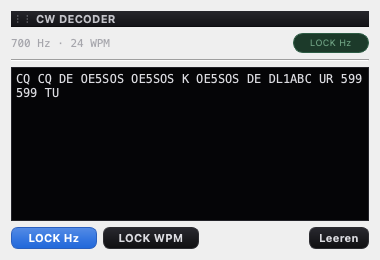
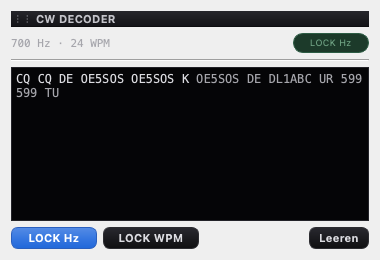
fix(cw): Kostenschwelle, Umbrüche als Leerzeichen, Konfidenz als Textton; CodeQL lässt vendorten Code aus
Livetest über öffentliche KiwiSDRs (DK0WCY): auf einer leeren oder
schwachen CW-Frequenz dekodiert ggmorse Bandrauschen als zufällige
Buchstaben mit Kosten nahe 1 (60 % aller Stücke ≥ 0,70) und setzt bei
jedem Tonhöhenwechsel einen Zeilenumbruch. Der Applet-Port hatte beides
aus AetherSDRs appendCwText nicht übernommen (cost war Q_UNUSED).

- Kostenschwelle fest auf AetherSDRs Vorgabe 0,70 (ohne den
  Empfindlichkeitsregler -- Bedienoberfläche, Martins Entscheidung).
- Zeilenumbrüche werden Leerzeichen, wie bei AetherSDR.
- Konfidenz als Textton (< 0,15 primär, < 0,35 sekundär, sonst tertiär)
  statt AetherSDRs grün/gelb/orange/rot -- Rot bleibt der Warnung.
- Prüfstand: Schwelle, Umbrüche, Ton je Zeichen; PNG neu gerendert.

CodeQL: PR #30 fiel über sieben integer-multiplication-cast-to-long-
Warnungen in ggmorse selbst. Vendorter Code bleibt byte-identisch, also
ist dort nichts zu beheben -- third_party/ und build/ (FetchContent:
PortAudio, Opus, RNNoise) sind jetzt per paths-ignore ausgenommen.

Changed region(s): [[0.5211, 0.2769, 0.8105, 0.3385], [0.8395, 0.2769, 0.9553, 0.3385], [0.0289, 0.3385, 0.1447, 0.3692]]

diff --git a/tests/tst_cw_decoder_applet.cpp b/tests/tst_cw_decoder_applet.cpp
@@ -4,6 +4,8 @@
 //
 // Longpath-original test. CwDecoderApplet over a RadioModel:
 //   * decoded text lands in the transcript and stays capped
+//   * the cost gate drops noise decodes, newlines flow as spaces, and
+//     the confidence shows as the text tone
 //   * the stats line and the capsule follow the decoder (lock toggles)
 //   * the pitch band follows the operator's CW pitch (AppSettings CWPitch)
 //   * a removed bound slice unbinds the applet (tap released)
@@ -24,6 +26,7 @@
 #include "core/AppSettings.h"
 #include "core/AudioEngine.h"
 #include "core/CwDecoder.h"
+#include "gui/StyleConstants.h"
 #include "gui/applets/CwDecoderApplet.h"
 #include "models/RadioModel.h"
 #include "models/SliceModel.h"
@@ -56,6 +59,34 @@ private slots:
         QVERIFY(applet.textForTest()->toPlainText().size() <= 4000);
         QVERIFY(applet.textForTest()->toPlainText().endsWith(QString(100, QLatin1Char('V'))));
         QVERIFY(!applet.textForTest()->toPlainText().contains(QStringLiteral("CQ TEST")));
+    }
+
+    void costGateNewlinesAndConfidenceTone()
+    {
+        RadioModel radio;
+        CwDecoderApplet applet(&radio);
+        // cost >= 0.70 (AetherSDR's default gate) never reaches the text;
+        // ggmorse's newlines flow as spaces.
+        QMetaObject::invokeMethod(&applet, "onTextDecoded", Qt::DirectConnection,
+                                  Q_ARG(QString, QStringLiteral("?E5H")), Q_ARG(float, 0.95f));
+        QCOMPARE(applet.textForTest()->toPlainText(), QString());
+        QMetaObject::invokeMethod(&applet, "onTextDecoded", Qt::DirectConnection,
+                                  Q_ARG(QString, QStringLiteral("AB\n")), Q_ARG(float, 0.10f));
+        QMetaObject::invokeMethod(&applet, "onTextDecoded", Qt::DirectConnection,
+                                  Q_ARG(QString, QStringLiteral("CD")), Q_ARG(float, 0.25f));
+        QMetaObject::invokeMethod(&applet, "onTextDecoded", Qt::DirectConnection,
+                                  Q_ARG(QString, QStringLiteral("EF")), Q_ARG(float, 0.60f));
+        QCOMPARE(applet.textForTest()->toPlainText(), QStringLiteral("AB CDEF"));
+
+        // Confidence by tone: sure = primary, fair = secondary, else tertiary.
+        auto toneAt = [&](int pos) {
+            QTextCursor c(applet.textForTest()->document());
+            c.setPosition(pos + 1);   // charFormat() is the format of the char before
+            return c.charFormat().foreground().color().name();
+        };
+        QCOMPARE(toneAt(0), QColor(QLatin1String(Style::kTextPrimary)).name());
+        QCOMPARE(toneAt(3), QColor(QLatin1String(Style::kTextSecondary)).name());
+        QCOMPARE(toneAt(5), QColor(QLatin1String(Style::kTextTertiary)).name());
     }
 
     void statsAndCapsuleFollowTheDecoder()
@@ -125,7 +156,7 @@ private slots:
         QMetaObject::invokeMethod(&applet, "onStatsUpdated", Qt::DirectConnection,
                                   Q_ARG(float, 700.0f), Q_ARG(float, 24.0f));
         QMetaObject::invokeMethod(&applet, "onTextDecoded", Qt::DirectConnection,
-                                  Q_ARG(QString, QStringLiteral("CQ CQ DE OE5SOS OE5SOS K ")), Q_ARG(float, 0.2f));
+                                  Q_ARG(QString, QStringLiteral("CQ CQ DE OE5SOS OE5SOS K ")), Q_ARG(float, 0.1f));
         QMetaObject::invokeMethod(&applet, "onTextDecoded", Qt::DirectConnection,
                                   Q_ARG(QString, QStringLiteral("OE5SOS DE DL1ABC UR 599 599 TU")), Q_ARG(float, 0.3f));
         // A lock re-reads the decoder's own estimate (0 here, no audio), so

diff --git a/src/gui/applets/CwDecoderApplet.cpp b/src/gui/applets/CwDecoderApplet.cpp
@@ -26,6 +26,7 @@
 #include <QLabel>
 #include <QPlainTextEdit>
 #include <QPushButton>
+#include <QTextCharFormat>
 #include <QTimer>
 #include <QVBoxLayout>
 
@@ -46,6 +47,19 @@ constexpr int kMaxCharCount = 4000;
 // pads a known pitch by 150 Hz either side (setKnownParameters); the
 // floor of 100 Hz is ggmorse's own lower bound of usefulness.
 constexpr int kPitchPadHz = 150;
+// AetherSDR's default sensitivity (PanadapterApplet m_cwCostThreshold
+// 0.70): a decode whose ggmorse cost is at or above this is dropped.
+// ggmorse's own "is decoding" line is 1.0, and band noise decodes as
+// random letters at a cost near it -- without the gate an idle CW slice
+// fills the transcript with garbage (seen live over a KiwiSDR,
+// 2026-09-21). AetherSDR exposes the threshold as a slider; Longpath
+// keeps the default fixed until the operator asks for the knob.
+constexpr float kCostThreshold = 0.70f;
+// AetherSDR's confidence bands (cost < 0.15 green, < 0.35 yellow, < 0.60
+// orange, else red). Longpath keeps red for warnings and dims uncertain
+// copy instead: primary / secondary / tertiary text tone.
+constexpr float kCostSure = 0.15f;
+constexpr float kCostFair = 0.35f;
 } // namespace
 
 CwDecoderApplet::CwDecoderApplet(RadioModel* model, QWidget* parent)
@@ -211,14 +225,24 @@ void CwDecoderApplet::syncFromModel()
 
 void CwDecoderApplet::onTextDecoded(const QString& text, float cost)
 {
-    Q_UNUSED(cost);
+    if (cost >= kCostThreshold) { return; }
+    // ggmorse starts a new line on every pitch change; AetherSDR turns
+    // them into spaces so the copy flows as one line (appendCwText).
+    QString clean = text;
+    clean.replace(QLatin1Char('\n'), QLatin1Char(' '));
+
+    QTextCharFormat fmt;
+    fmt.setForeground(QColor(QLatin1String(
+        cost < kCostSure ? Style::kTextPrimary
+        : cost < kCostFair ? Style::kTextSecondary
+        : Style::kTextTertiary)));
     auto cursor = m_textOutput->textCursor();
     cursor.movePosition(QTextCursor::End);
-    cursor.insertText(text);
+    cursor.insertText(clean, fmt);
     m_textOutput->setTextCursor(cursor);
     m_textOutput->ensureCursorVisible();
 
-    m_charCount += text.size();
+    m_charCount += clean.size();
     if (m_charCount > kMaxCharCount) {
         // By character count, not by line: CW text has no line breaks.
         const int excess = m_charCount - kMaxCharCount;

diff --git a/src/gui/applets/CwDecoderApplet.h b/src/gui/applets/CwDecoderApplet.h
@@ -26,7 +26,10 @@
 //                 follows the slice's CW pitch (SliceModel, Thetis-
 //                 sourced) with +/- 150 Hz around it, the way AetherSDR's
 //                 setKnownParameters pads a known pitch; the operator
-//                 does not set a second pitch here.
+//                 does not set a second pitch here. The cost gate keeps
+//                 AetherSDR's default (0.70) without the sensitivity
+//                 slider, and confidence dims the text instead of
+//                 colouring it green/yellow/orange/red.
 // =================================================================
 
 #pragma once

diff --git a/docs/architecture/2026-09-21-cw-decoder.md b/docs/architecture/2026-09-21-cw-decoder.md
@@ -37,6 +37,20 @@ AetherSDR-Ports sind seit Monaten Praxis, `AETHERSDR-PORTS.md`).
 4. **Tonband aus dem CW-Pitch der Einstellungen**, nicht aus einem
    eigenen Regler: der Betreiber stellt seine Tonhöhe einmal ein
    (Setup), der Decoder sucht ± 150 Hz darum.
+5. **Kostenschwelle fest auf AetherSDRs Vorgabe (0,70), ohne
+   Empfindlichkeitsregler.** ggmorse liefert zu jedem Textstück eine
+   Kostenfunktion (Abweichung der Punkt-/Strich-/Pausenlängen vom
+   Ideal; unter 1,0 gilt als „dekodiert"). Bandrauschen dekodiert als
+   zufällige Buchstaben mit Kosten nahe 1 — ohne Schwelle füllt sich
+   das Fenster auf einer leeren CW-Frequenz mit Müll (im Livetest über
+   einen KiwiSDR: 60 % aller Stücke ≥ 0,70, fast alle ≥ 0,35). Der
+   Regler ist Bedienoberfläche, also Martins Entscheidung.
+6. **Konfidenz als Textton, nicht als Ampel.** AetherSDR färbt nach
+   Kosten grün/gelb/orange/rot; Longpath hält Rot für Warnungen frei
+   (Gestaltungsregel) und dämpft stattdessen: < 0,15 Primärtext,
+   < 0,35 Sekundärtext, sonst Tertiärtext. Zeilenumbrüche, die ggmorse
+   bei jedem Tonhöhenwechsel setzt, werden wie bei AetherSDR zu
+   Leerzeichen.
 
 ## Prüfstände
 
@@ -46,12 +60,19 @@ AetherSDR-Ports sind seit Monaten Praxis, `AETHERSDR-PORTS.md`).
   nichts; der Ring wirft das Älteste weg statt zu wachsen; `stop()` joint
   den Worker und löscht die nicht gesperrten Schätzwerte (gesperrte
   bleiben).
-* `tests/tst_cw_decoder_applet.cpp` (5): Text landet und bleibt gedeckelt,
-  Statuszeile/Kapsel folgen den Locks, CW-Pitch-Einstellung, Scheibe
-  entfernt/umgebunden, PNG-Grab.
+* `tests/tst_cw_decoder_applet.cpp` (6): Text landet und bleibt gedeckelt,
+  Kostenschwelle/Umbrüche/Konfidenzton, Statuszeile/Kapsel folgen den
+  Locks, CW-Pitch-Einstellung, Scheibe entfernt/umgebunden, PNG-Grab.
 
 **Live** am Radio (CWL, Signal auf dem Band) noch nicht geprüft; das Bild
-oben ist aus dem Prüfstand gerendert.
+oben ist aus dem Prüfstand gerendert. Ein Livetest über öffentliche
+KiwiSDRs (DK0WCY, 10,144 MHz, Vormittag des 21.09.) brachte keinen
+sauberen Bakentext — das Signal war an keinem der erreichbaren
+Empfänger stark genug (30 m: nahe Empfänger in der toten Zone, ferne
+zu schwach; 80 m außerhalb des Bakenfahrplans). Der Versuch war
+trotzdem ergiebig: er fand den doppelt verschobenen CW-Durchlass des
+KiwiSDR-Pfads (eigener PR) und die Notwendigkeit der Kostenschwelle
+(Punkt 5 oben).
 
 ## Bekanntes
 

diff --git a/CHANGELOG.md b/CHANGELOG.md
@@ -211,9 +211,10 @@ und Linux (x86_64 und aarch64), alle GPG-signiert.
   und CWU): dekodiert Morse direkt aus dem Empfangston, ohne fldigi.
   Tonhoehe und Tempo werden erkannt und koennen festgehalten werden
   (LOCK Hz / LOCK WPM); das Suchband folgt dem eingestellten CW-Pitch.
-  Decoder ist ggmorse (MIT, unveraendert vendort), der Wrapper ein Port
-  aus AetherSDR -- der Ersatz fuer den am 20.09. zurueckgezogenen
-  ersten Anlauf.
+  Unsichere Zeichen erscheinen gedaempft, Rauschen wird gar nicht erst
+  gezeigt. Decoder ist ggmorse (MIT, unveraendert vendort), der Wrapper
+  ein Port aus AetherSDR -- der Ersatz fuer den am 20.09.
+  zurueckgezogenen ersten Anlauf.
 
 - **Logbuch-Kennzahlen + Awards** (Logbuch > Stats…): sechs Kacheln
   statt des Textfensters -- Log (Gesamt, Rufzeichen, erste/letzte,
